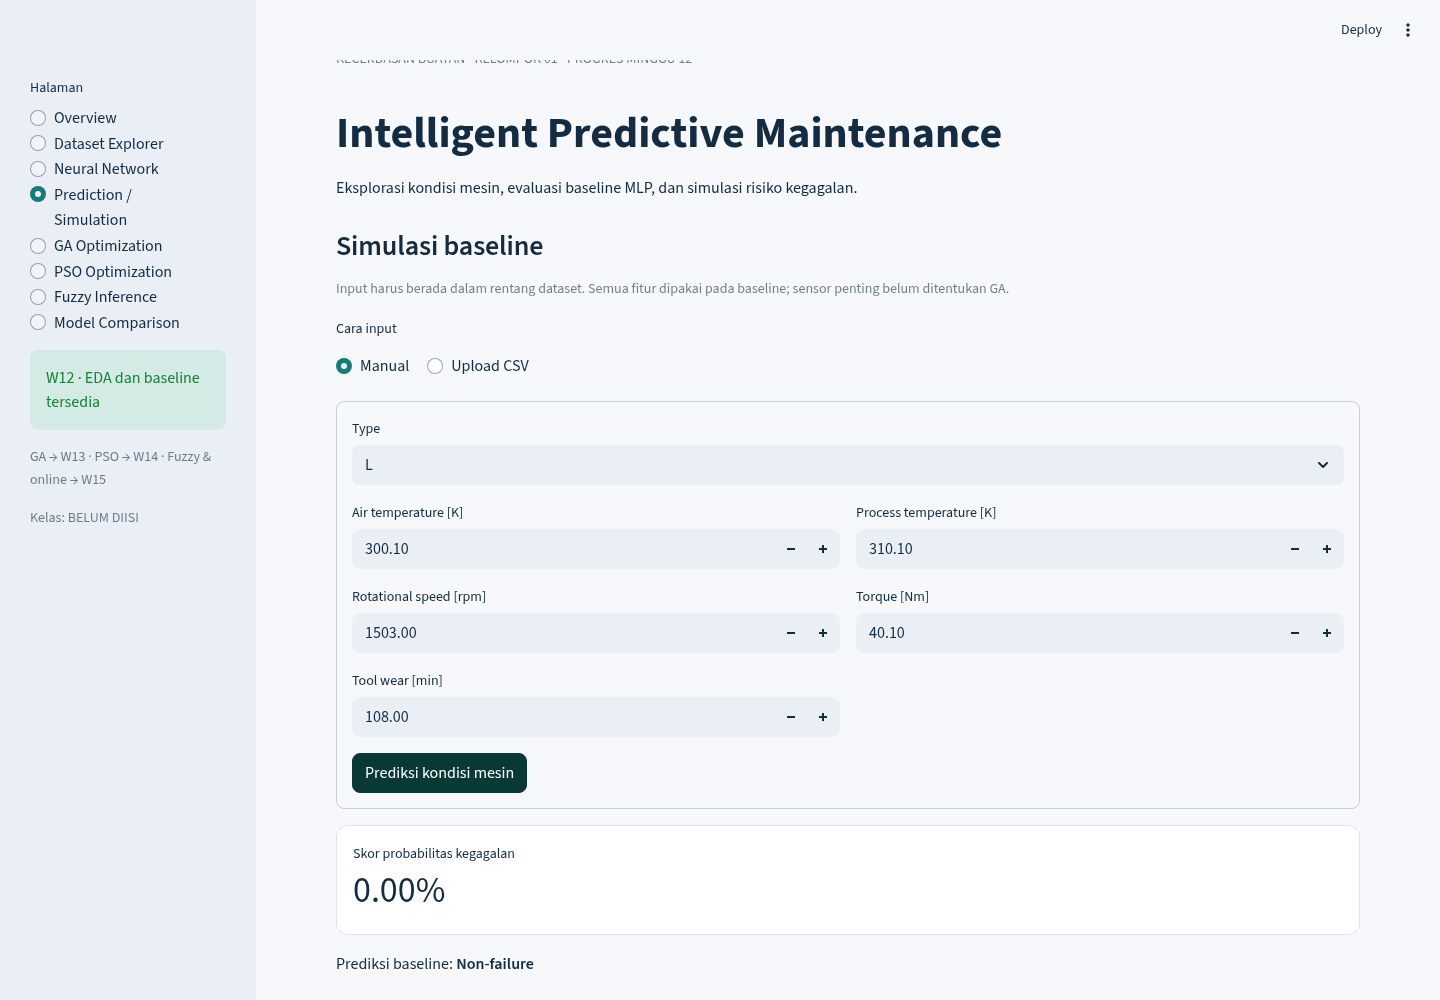
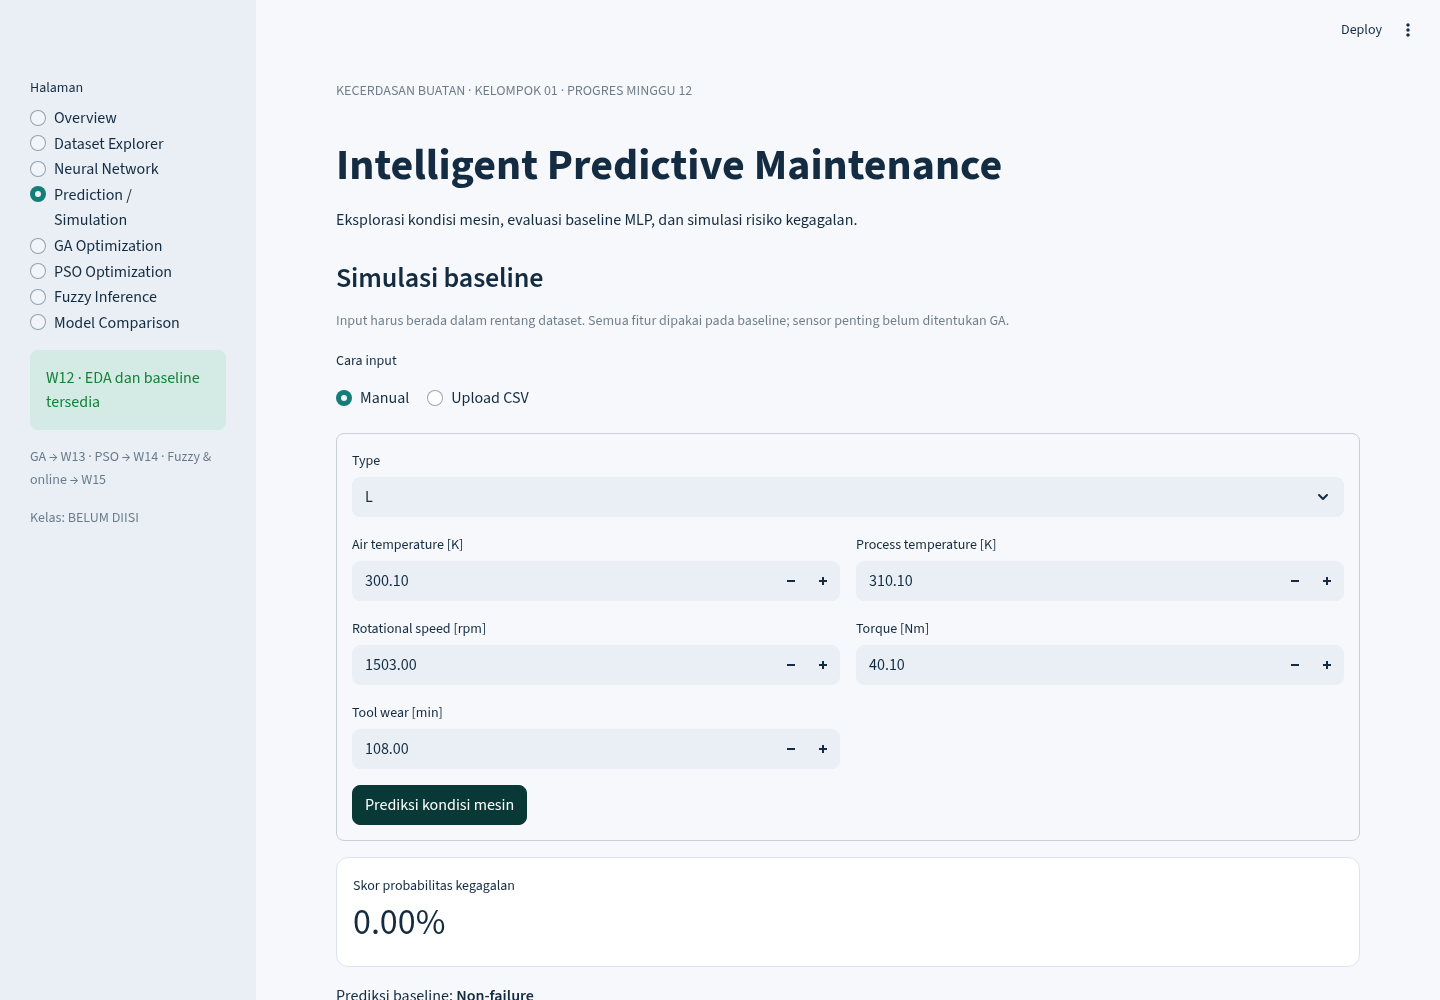
Lengkapi Kelas B dan repository kelompok untuk W12

Changed region(s): [[0.2188, 0.062, 0.7188, 0.403], [0.2188, 0.496, 0.375, 1.0], [0.5938, 0.496, 0.6875, 0.682]]

diff --git a/tools/build_report.py b/tools/build_report.py
@@ -80,7 +80,7 @@ h('9. Risiko dan mitigasi')
 p('<b>Leakage:</b> buang label jenis failure/ID, fit preprocessing hanya train, kunci test. <b>Imbalance:</b> class weights dari train dan evaluasi kelas positif. <b>Overfitting validation:</b> catat budget pencarian, beberapa seed dan evaluasi akhir sekali setelah model terkunci. <b>Data sintetis dan urutan:</b> jelaskan keterbatasan generalisasi. <b>False alarm/FN:</b> laporkan keduanya; threshold 0,5 belum dioptimalkan. <b>Deployment:</b> pin dependensi, simpan artefak dan uji URL publik tanpa login.')
 h('10. Status pengumpulan dan reproduksi')
 p('<b>Tersedia:</b> laporan 4 halaman; script EDA/preprocessing/baseline; statistik, grafik, manifest split, metrik validation, model tersimpan, README, requirements dan delapan area Streamlit. Prediksi manual/CSV memakai NN asli. GA/PSO/Fuzzy diberi status rencana.')
-p(f"<b>Kelas:</b> {escape(cfg['class'])}. <b>Repository remote:</b> {escape(cfg['repository_url'])}. <b>Dashboard publik:</b> {escape(cfg['deployment_url'])}. Git lokal tersedia pada workspace; URL repository dan deployment perlu dilengkapi. W12 mengizinkan bukti aplikasi awal lokal; URL skeleton dicantumkan bila tersedia.")
+p(f"<b>Kelas:</b> {escape(cfg['class'])}. <b>Repository remote:</b> {escape(cfg['repository_url'])}. <b>Dashboard publik:</b> {escape(cfg['deployment_url'])}. URL repository sudah dicantumkan; deployment publik belum dilakukan. W12 mengizinkan bukti aplikasi awal lokal; URL skeleton dicantumkan bila tersedia.")
 p('Reproduksi (Python 3.12): pip install -r requirements.txt; python -m src.eda; python -m src.train_baseline --seed 42; streamlit run app.py. Unggah PDF progres dan URL repo ke Moodle; tenggat resmi mengikuti Moodle/pengampu.',True)
 h('Sumber')
 p('1. Panduan Deliverables Tubes KB Minggu 12–16 (PDF dosen), hlm. 1–3.<br/>2. Tugas Besar KB 16 Kelompok UCI Streamlit (PDF dosen), hlm. 5 dan 9.<br/>3. UCI AI4I 2020, DOI: 10.24432/C5HS5C (CC BY 4.0). https://archive.ics.uci.edu/dataset/601/ai4i+2020+predictive+maintenance+dataset<br/>4. Deployment resmi: https://docs.streamlit.io/deploy/streamlit-community-cloud/deploy-your-app',True)

diff --git a/app.py b/app.py
@@ -8,7 +8,7 @@ import streamlit as st
 from src.common import ROOT, FEATURES, NUMERIC, TARGET, load_data, splits, validate_inputs
 
 st.set_page_config(page_title='K01 | Predictive Maintenance', page_icon='⚙', layout='wide')
-st.markdown('''<style>.block-container{max-width:1200px;padding-top:2rem}
+st.markdown('''<style>.block-container{max-width:1200px;padding-top:4rem}
 [data-testid="stMetric"]{background:white;border:1px solid #dce5ed;border-radius:12px;padding:16px}
 h1,h2,h3{color:#142c42}</style>''', unsafe_allow_html=True)
 st.caption('KECERDASAN BUATAN · KELOMPOK 01 · PROGRES MINGGU 12')

diff --git a/W12/W12_Proposal_EDA.md b/W12/W12_Proposal_EDA.md
@@ -2,7 +2,7 @@ TE2514031 | GASAL 2026/2027 | PROGRES MINGGU 12
 
 # Intelligent Predictive Maintenance System
 
-**Kelompok 01 · Kelas: BELUM DIISI**<br/>Dataset AI4I 2020 (UCI ID 601) · Target: Machine failure (0/1)
+**Kelompok 01 · Kelas: B**<br/>Dataset AI4I 2020 (UCI ID 601) · Target: Machine failure (0/1)
 
 ## 1. Masalah, tujuan, dan batas sistem
 
@@ -116,7 +116,7 @@ Kurva loss train/validation di atas dihitung tanpa bobot agar dapat dibandingkan
 
 **Tersedia:** laporan 4 halaman; script EDA/preprocessing/baseline; statistik, grafik, manifest split, metrik validation, model tersimpan, README, requirements dan delapan area Streamlit. Prediksi manual/CSV memakai NN asli. GA/PSO/Fuzzy diberi status rencana.
 
-**Kelas:** BELUM DIISI. **Repository remote:** BELUM DIISI. **Dashboard publik:** BELUM DEPLOY. Git lokal tersedia pada workspace; URL repository dan deployment perlu dilengkapi. W12 mengizinkan bukti aplikasi awal lokal; URL skeleton dicantumkan bila tersedia.
+**Kelas:** B. **Repository remote:** https://github.com/putcah/tubes-kecerdasan-buatan-kelompok-1. **Dashboard publik:** BELUM DEPLOY. URL repository sudah dicantumkan; deployment publik belum dilakukan. W12 mengizinkan bukti aplikasi awal lokal; URL skeleton dicantumkan bila tersedia.
 
 Reproduksi (Python 3.12): pip install -r requirements.txt; python -m src.eda; python -m src.train_baseline --seed 42; streamlit run app.py. Unggah PDF progres dan URL repo ke Moodle; tenggat resmi mengikuti Moodle/pengampu.
 

diff --git a/PENGUMPULAN_W12.md b/PENGUMPULAN_W12.md
@@ -17,10 +17,10 @@ Tenggat sesuai Moodle/pengampu. Dokumen dosen meminta satu PDF progres dan satu 
 
 ## Perlu diselesaikan sebelum submit
 
-- [ ] Isi **kelas** di `project.json`.
+- [x] Kelas **B** sudah diisi di `project.json`.
 - [ ] Sepakati pembagian peran; ubah jika perlu. Jangan mengaku sebagai bukti kontribusi yang sudah terjadi.
-- [ ] Buat/unggah repository GitHub kelompok dan isi URL sebenarnya.
-- [ ] Isi identitas/URL lalu regenerasi PDF: `pip install -r requirements-report.txt` dan `python tools/build_report.py`.
+- [x] Repository kelompok: https://github.com/putcah/tubes-kecerdasan-buatan-kelompok-1 .
+- [x] Kelas dan URL repo sudah dimasukkan dan PDF diregenerasi. Untuk memperbarui lagi: `pip install -r requirements-report.txt` dan `python tools/build_report.py`.
 - [ ] Jalankan `python -m src.eda` dan `streamlit run app.py` pada laptop kelompok.
 - [ ] Sertakan bukti dashboard awal dari `W12/bukti_dashboard/`; bila sudah deploy sertakan screenshot Incognito dan URL aktif.
 - [ ] Unggah **W12/W12_Proposal_EDA.pdf** dan **URL repository** ke Moodle. Jika formulir mengizinkan, sertakan URL dashboard atau bukti lokal.

diff --git a/README.md b/README.md
@@ -62,4 +62,4 @@ Ketentuan tugas: dua PDF dosen yang dilampirkan pengguna, khususnya Panduan Deli
 - [Deploy Streamlit resmi](https://docs.streamlit.io/deploy/streamlit-community-cloud/deploy-your-app).
 - Referensi video dari pengguna: https://www.youtube.com/watch?v=qTVpbdGzKY8. Konten video tidak berhasil diakses; tidak ada klaim mengikuti rincian tutorialnya. Panduan deployment berdasarkan dokumentasi resmi Streamlit dan ketentuan PDF.
 
-Repository remote dan deployment publik **belum dibuat**. Git lokal bukan URL repository. Isi kelas dan URL di `project.json` setelah tersedia, lalu lengkapi checklist pengumpulan.
+Kelas **B**, Kelompok 01. Repository: https://github.com/putcah/tubes-kecerdasan-buatan-kelompok-1 . Deployment publik **belum dibuat**; ikuti DEPLOYMENT.md. URL aplikasi di project.json diisi setelah benar-benar aktif.
